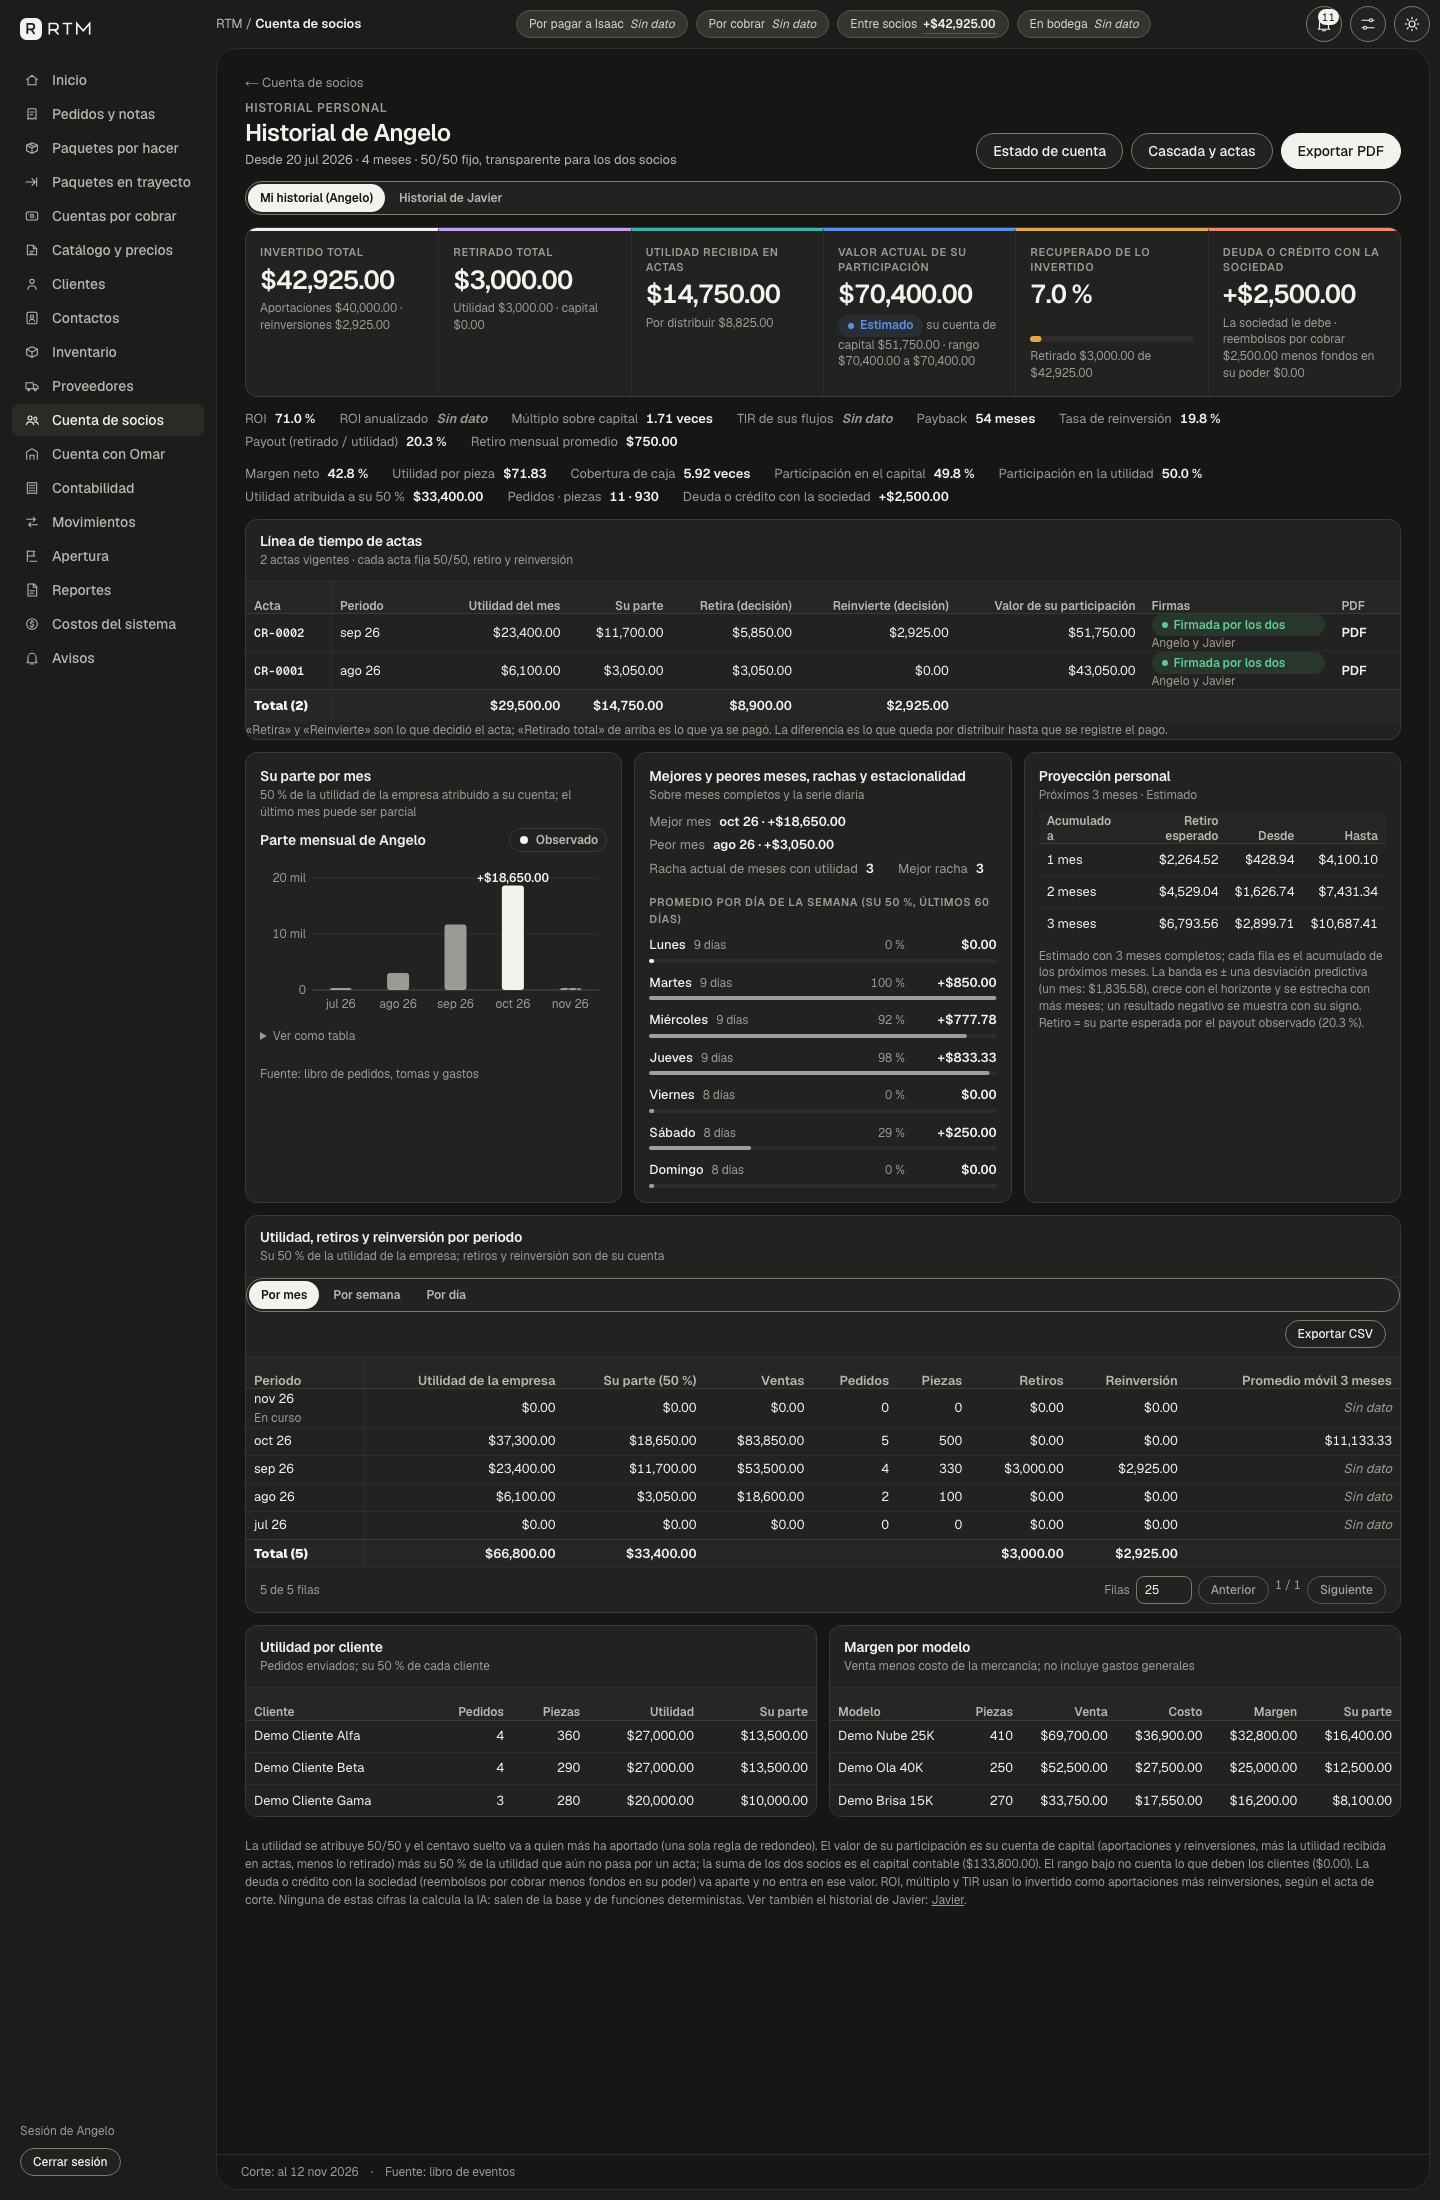
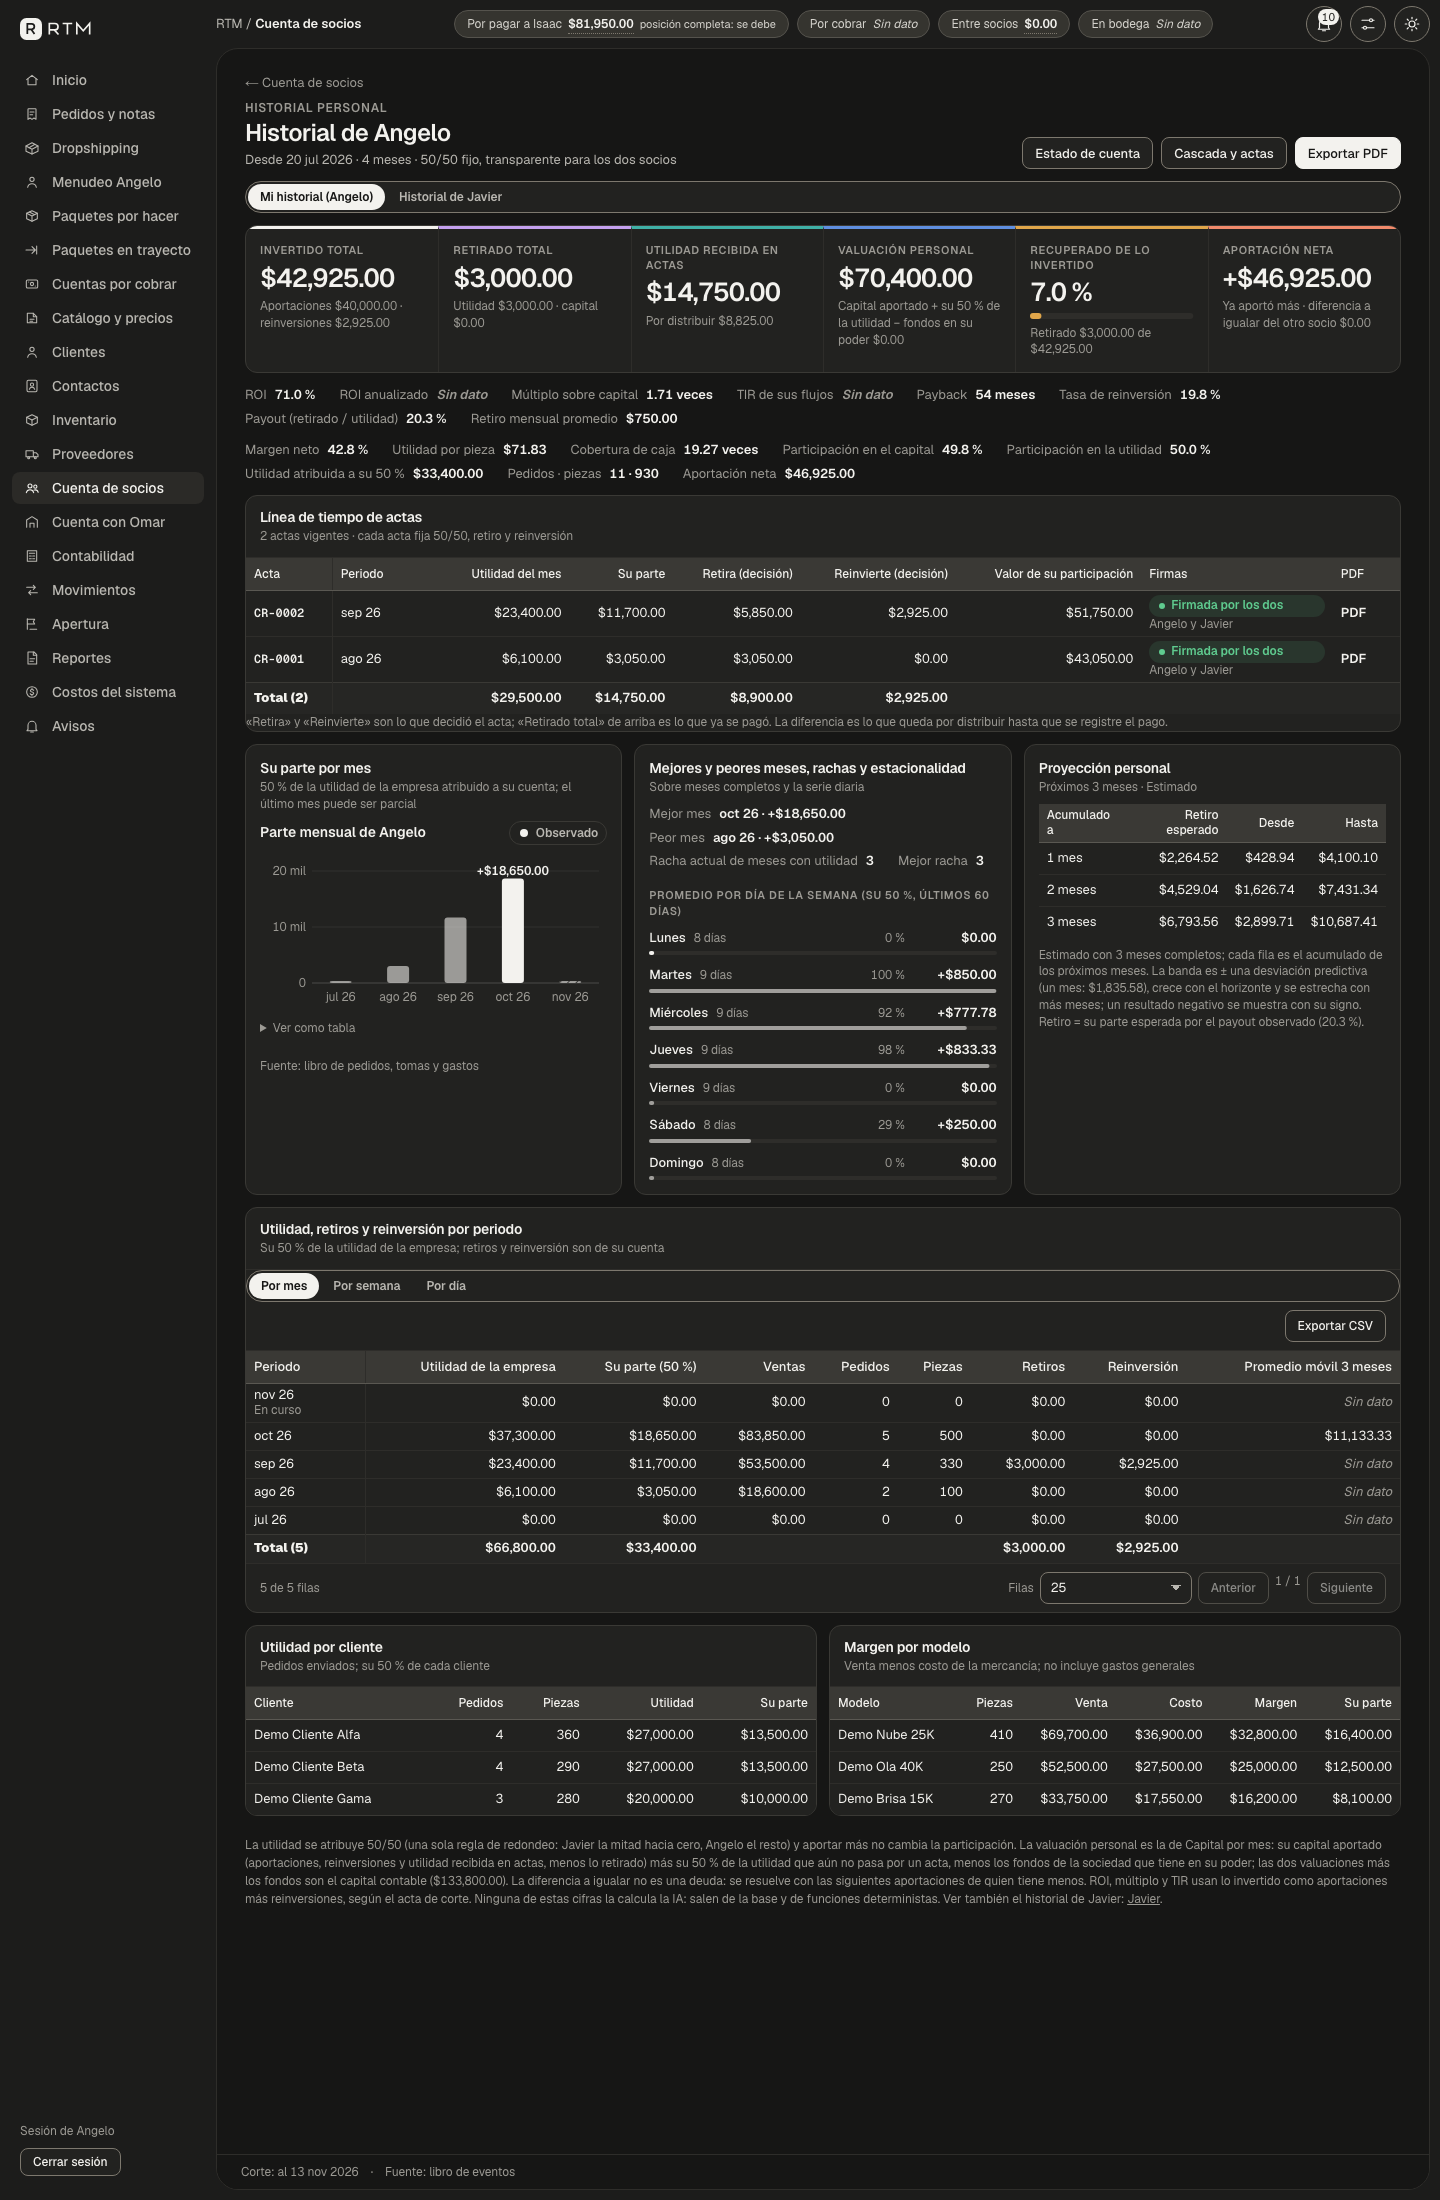
test(historial): e2e verifica sello, asiento cuadrado, Libro conciliado y valuacion sellada tras la firma; capturas con el formulario de reinversion igual; puertos por entorno

diff --git a/test/e2e/historial-acta.spec.ts b/test/e2e/historial-acta.spec.ts
@@ -34,9 +34,17 @@ test('Angelo propone el acta de octubre con retiro y reinversion y la firma', as
   await sesion(page, 'Angelo', '/socios/cascada?ini=2026-10-01&fin=2026-10-31');
   await expect(page.getByTestId('proponer-cierre')).toBeVisible();
   await page.getByTestId('proponer-cierre').click();
+  // La reinversion viene IGUAL para los dos por omision (la sugerencia de la base) y es editable; sin diferencia no hay alerta.
+  const sugA = await page.getByTestId('campo-a_reinvierte').inputValue();
+  const sugJ = await page.getByTestId('campo-j_reinvierte').inputValue();
+  expect(sugA).not.toBe('');
+  expect(sugA).toBe(sugJ);
+  await expect(page.getByTestId('alerta-reinversion-distinta')).toHaveCount(0);
   await page.getByTestId('campo-a_retira').fill('500');
   await page.getByTestId('campo-a_reinvierte').fill('300');
   await page.getByTestId('campo-j_reinvierte').fill('400');
+  // Con montos distintos solo hay una alerta informativa; no bloquea.
+  await expect(page.getByTestId('alerta-reinversion-distinta')).toBeVisible();
   await page.getByTestId('confirmar').click();
   await expect(page.getByRole('dialog')).toBeHidden({ timeout: 30_000 });
   const enlace = page.getByRole('row').filter({ hasText: 'Propuesto: faltan las dos firmas' }).getByRole('link', { name: /^CR-\d+$/ });
@@ -66,6 +74,21 @@ test('Javier firma, el acta se cierra con sello y se descarga el PDF', async ({ 
   expect(pdf.status()).toBe(200);
   expect(pdf.headers()['content-type']).toBe('application/pdf');
   expect((await pdf.body()).subarray(0, 5).toString()).toBe('%PDF-');
+  // Persistido con COMMIT real (cada firma es su propia transaccion): sello presente, asiento cuadrado, Libro conciliado verdadero y valuacion sellada = la de Capital por mes al corte.
+  const v = (await consultar<{ sellos: number; descuadre: string; conciliado: boolean; sa: string; ca: string; sj: string; cj: string }>(
+    `select (select count(*)::int from operacion.acta_sello where cierre_id = $1) as sellos,
+            (select coalesce(sum(l.debe_cent - l.haber_cent), 0)::text from contabilidad.asiento_linea l join contabilidad.asiento a on a.id = l.asiento_id
+              join operacion.cierre_reparto_firma f on f.evento_id = a.evento_id where f.cierre_id = $1) as descuadre,
+            (operacion.cuadre_socios()->>'libro_conciliado')::boolean as conciliado,
+            (select contenido->'valor_participacion_cent'->>'Angelo' from operacion.acta_sello where cierre_id = $1) as sa,
+            (select x->>'valuacion_cent' from jsonb_array_elements(operacion.cap_periodo('2026-10-31', '2026-10-31', false)->'socios') x where x->>'socio' = 'Angelo') as ca,
+            (select contenido->'valor_participacion_cent'->>'Javier' from operacion.acta_sello where cierre_id = $1) as sj,
+            (select x->>'valuacion_cent' from jsonb_array_elements(operacion.cap_periodo('2026-10-31', '2026-10-31', false)->'socios') x where x->>'socio' = 'Javier') as cj`, [actaId]))[0]!;
+  expect(v.sellos).toBe(1);
+  expect(v.descuadre).toBe('0');
+  expect(v.conciliado).toBe(true);
+  expect(v.sa).toBe(v.ca);
+  expect(v.sj).toBe(v.cj);
   // La cifra "Disponible" se explica por dos vias.
   await page.getByRole('row').filter({ hasText: 'Angelo' }).first().getByRole('button', { name: /Explicar este número/ }).click();
   await expect(page.getByTestId('explicar-cajon')).toContainText('Cuadra');
@@ -76,7 +99,8 @@ test('Historial personal: cabecera, ratios, linea de tiempo con el acta nueva, e
   await expect(page.getByRole('heading', { name: 'Historial de Angelo' })).toBeVisible();
   await expect(page.getByTestId('h-invertido')).toContainText('$');
   await expect(page.getByTestId('h-invertido')).toContainText('Aportaciones $40,000.00');
-  await expect(page.getByTestId('h-valor')).toContainText('Estimado');
+  await expect(page.getByTestId('h-valor')).toContainText('Capital aportado');
+  await expect(page.getByTestId('h-neta')).toContainText('$');
   await expect(page.getByRole('region', { name: 'Ratios de rendimiento' }).or(page.getByLabel('Ratios de rendimiento'))).toContainText('ROI');
   const tl = page.getByRole('table', { name: 'Actas de Angelo' });
   await expect(tl.getByRole('row').filter({ hasText: 'Firmada por los dos' })).toHaveCount(3);

diff --git a/test/capturas/historial.spec.ts b/test/capturas/historial.spec.ts
@@ -5,7 +5,7 @@ import { join } from 'node:path';
 import { altaUsuario, correoUnico, enlaceConfirmacion, ipFalsa } from '../e2e/ayudas';
 
 const SALIDA = join(__dirname, '../../docs/capturas/historial-acta');
-const BASE = 'http://127.0.0.1:3184';
+const BASE = `http://127.0.0.1:${process.env.E2E_PUERTO ?? '3184'}`;
 const PERFILES = [{ nombre: '1440', ancho: 1440, alto: 2200, movil: false }, { nombre: '390', ancho: 390, alto: 3800, movil: true }];
 const TEMAS = ['claro', 'oscuro'] as const;
 
@@ -41,6 +41,19 @@ test('capturas del historial y el acta', async ({ browser }) => {
         await page.screenshot({ path: join(SALIDA, `${p.nombre}-${tema}-${nombre}${ancho > 1 ? '-SCROLLH' : ''}.png`), fullPage: false });
         await page.close();
       }
+      // Formulario de propuesta de acta: reinversion IGUAL por omision y, con montos distintos, la alerta informativa (octubre sin acta: correr ANTES del e2e que la firma).
+      const f = await ctx.newPage();
+      await f.goto(`${BASE}/socios/cascada?ini=2026-10-01&fin=2026-10-31`, { waitUntil: 'networkidle', timeout: 180_000 });
+      if (await f.getByTestId('proponer-cierre').count()) {
+        await f.getByTestId('proponer-cierre').click();
+        await f.addStyleTag({ content: 'nextjs-portal { display: none !important; }' });
+        await f.waitForTimeout(300);
+        await f.screenshot({ path: join(SALIDA, `${p.nombre}-${tema}-proponer-acta-igual.png`), fullPage: false });
+        await f.getByTestId('campo-j_reinvierte').fill('1');
+        await f.waitForTimeout(200);
+        await f.screenshot({ path: join(SALIDA, `${p.nombre}-${tema}-proponer-acta-alerta.png`), fullPage: false });
+      }
+      await f.close();
       await ctx.close();
     }
   }

diff --git a/playwright.historial.config.ts b/playwright.historial.config.ts
@@ -1,6 +1,6 @@
 import { defineConfig, devices } from '@playwright/test';
 
-// Pruebas e2e del Historial y el acta contra `next dev -p 3184` ya levantado y la base local propia (proyecto rtm-lane-hist, puertos 633xx) con la demo sembrada.
+// Pruebas e2e del Historial y el acta contra `next dev -p $E2E_PUERTO` (3184 por omision) ya levantado y la base local propia del worktree con la demo sembrada.
 export default defineConfig({
   testDir: 'test/e2e',
   testMatch: /historial-acta\.spec\.ts/,
@@ -9,6 +9,6 @@ export default defineConfig({
   workers: 1,
   timeout: 240_000,
   reporter: [['list']],
-  use: { baseURL: 'http://127.0.0.1:3184' },
+  use: { baseURL: `http://127.0.0.1:${process.env.E2E_PUERTO ?? '3184'}` },
   projects: [{ name: 'chromium', use: { ...devices['Desktop Chrome'] } }],
 });

diff --git a/playwright.capturas-historial.config.ts b/playwright.capturas-historial.config.ts
@@ -1,6 +1,6 @@
 import { defineConfig, devices } from '@playwright/test';
 
-// Pruebas e2e del Historial y el acta contra `next dev -p 3184` ya levantado y la base local propia (proyecto rtm-lane-hist, puertos 633xx) con la demo sembrada.
+// Pruebas e2e del Historial y el acta contra `next dev -p 3184` ya levantado y la base local propia propia del worktree con la demo sembrada.
 export default defineConfig({
   testDir: 'test/capturas',
   testMatch: /historial\.spec\.ts/,
@@ -9,6 +9,6 @@ export default defineConfig({
   workers: 1,
   timeout: 900_000,
   reporter: [['list']],
-  use: { baseURL: 'http://127.0.0.1:3184' },
+  use: { baseURL: `http://127.0.0.1:${process.env.E2E_PUERTO ?? '3184'}` },
   projects: [{ name: 'chromium', use: { ...devices['Desktop Chrome'] } }],
 });
